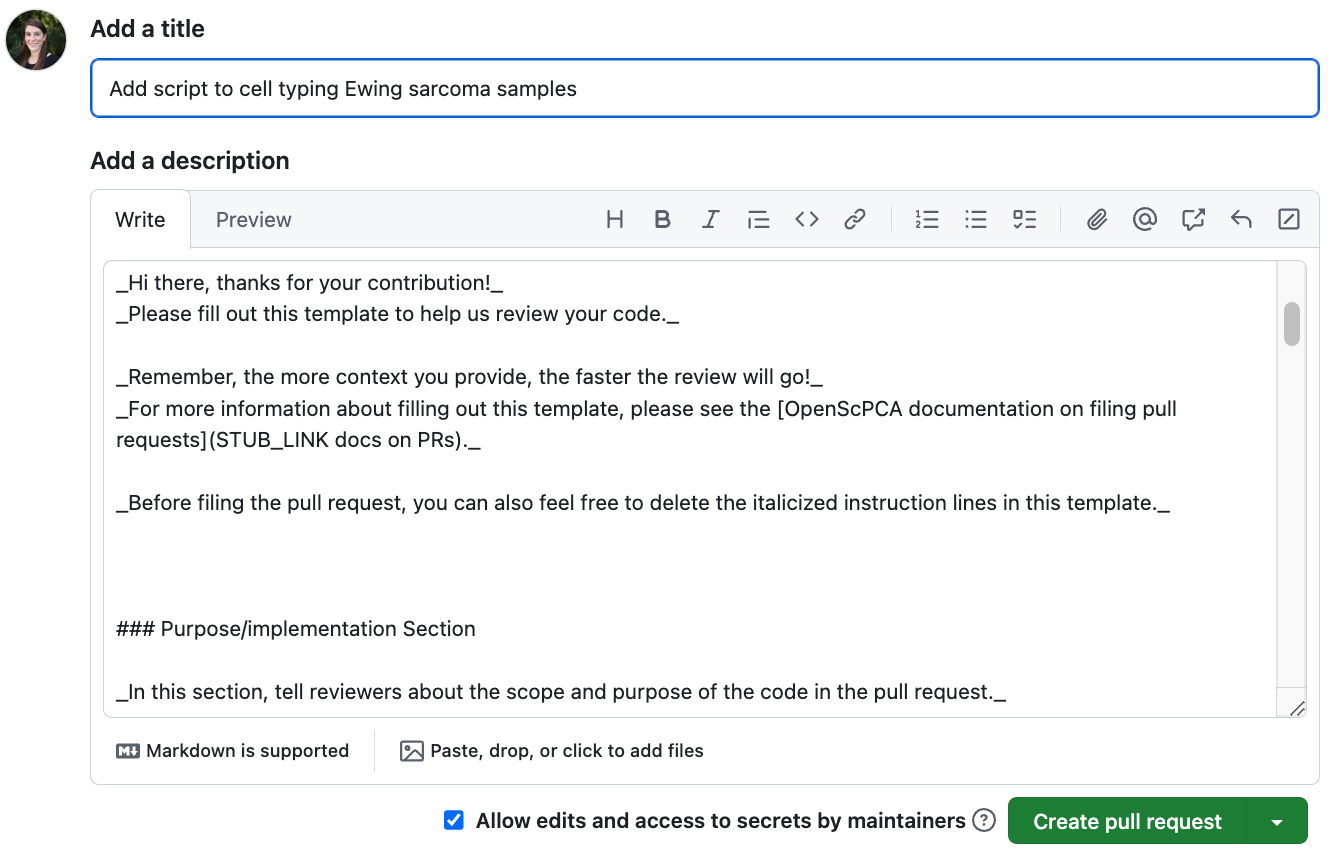
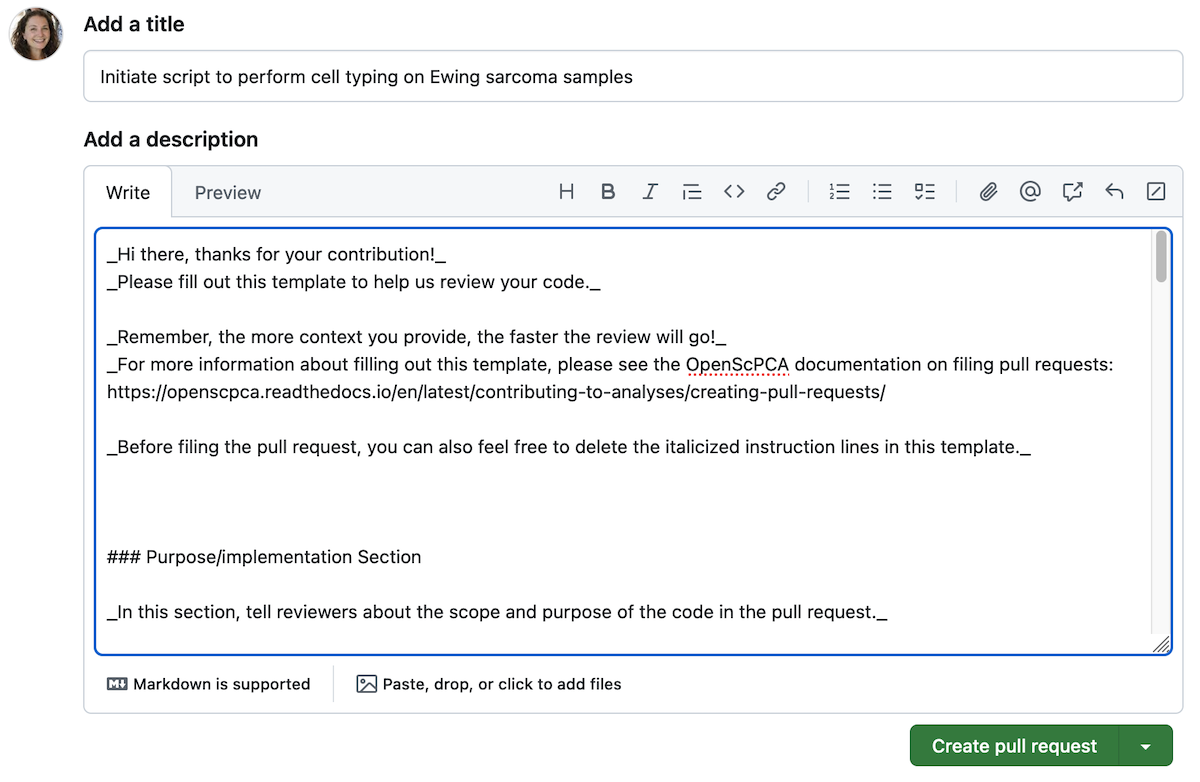
contributing cleanups, including a new image without stub_link and clearer PR subject

Changed region(s): [[0.0, 0.0, 0.9867, 0.9207], [0.3083, 0.89, 0.9867, 0.9821]]

diff --git a/docs/contributing-to-analyses/working-with-git/staying-in-sync-with-upstream.md b/docs/contributing-to-analyses/working-with-git/staying-in-sync-with-upstream.md
@@ -23,7 +23,7 @@ Follow these steps to keep your fork in sync with changes in `AlexsLemonade/Open
 
 1. If the `main` branch of your fork is out of date with the `main` branch of `AlexsLemonade/OpenScPCA-analysis`, then you will see a note that states:
 
-    >  This branch is X commits behind `AlexsLemonade/Open-ScPca-analysis:main`.
+    >  This branch is X commits behind `AlexsLemonade/OpenScPCA-analysis:main`.
 
     You can then press `Sync fork` to sync your fork with any upstream changes.
 
@@ -31,20 +31,23 @@ Follow these steps to keep your fork in sync with changes in `AlexsLemonade/Open
         ![Sync fork](../../img/upstream-sync-1.png){width="600"}
     </figure>
 
-1. After pressing `Sync fork` a pop-up will notify you that the branch is out-of-date.
-    Go ahead and press `Update branch`.
+2. After pressing `Sync fork`, GitHub will notify you that the branch is out-of-date.
+Go ahead and press `Update branch`.
+
+    - If GitHub instead tells you there are conflict that must be resolved, see the [section below on resolving sync conflicts](#syncing-your-fork-when-there-are-sync-conflicts).
+
 
     <figure markdown="span">
         ![Update branch](../../img/upstream-sync-2.png){width="300"}
     </figure>
 
-1. If your `main` branch has been updated successfully, you will now see a note that the branch is up to date with `AlexsLemonade/OpenScPCA-analysis`.
+3. If your `main` branch has been updated successfully, you will now see a note that the branch is up to date with `AlexsLemonade/OpenScPCA-analysis`.
 
     <figure markdown="span">
         ![Successful sync](../../img/upstream-sync-3.png){width="600"}
     </figure>
 
-1. Before making any changes locally, you will need to pull the synced changes from GitHub to your computer.
+4. Before making any changes locally, you will need to pull the synced changes from GitHub to your computer.
 
     In GitKraken, you will see two versions of the `main` branch in the branch graph:
 
@@ -73,13 +76,16 @@ Follow these steps to keep your fork in sync with changes in `AlexsLemonade/Open
 If there are changes on your `main` branch that conflict with the current code in the `main` branch of `AlexsLemonade/OpenScPCA-analysis`, you will not be able to sync until those conflicts have been resolved.
 
 When this happens, GitHub will notify you that there are conflicts after pushing `Sync fork`.
+**Do not click either of the buttons `Discard X commits` or `Open pull request`.**
 
 <figure markdown="span">
     ![Sync conflicts](../../img/upstream-sync-6.png){width="300"}
 </figure>
 
-**Do not click either of the buttons `Discard X commits` or `Open pull request`.**
 Instead, follow these steps to fix the sync conflicts in GitKraken:
+
+!!! tip
+    Learn more about how to resolve these conflicts by watching this [tutorial from GitKraken](https://www.gitkraken.com/learn/git/tutorials/how-to-resolve-merge-conflict-in-git).
 
 1. Open up your forked repository in GitKraken and checkout the `main` branch of your fork.
 
@@ -101,7 +107,6 @@ Any files that contain conflicts will be listed on the right-hand side under `Co
         ![Conflict files list](../../img/upstream-sync-9.png){width="400"}
     </figure>
 
-    To learn how to resolve these conflicts, please watch this [tutorial from GitKraken](https://www.gitkraken.com/learn/git/tutorials/how-to-resolve-merge-conflict-in-git).
-
     Once you have resolved the conflicts and committed the changes, your `main` branch will now be in sync with the upstream `main` branch of `AlexsLemonade/OpenScPCA-analysis`.
-    You may also choose to [push these changes to GitHub](./push-to-origin.md), to ensure that both the local and remote copy of your `main` branch are in sync with `AlexsLemonade/OpenScPCA-analysis:main`.
+
+    We also suggest [pushing these changes to GitHub](./push-to-origin.md), to ensure that both the local and remote copy of your fork's `main` branch are in sync with `AlexsLemonade/OpenScPCA-analysis:main`.

diff --git a/docs/contributing-to-analyses/creating-pull-requests/scoping-pull-requests.md b/docs/contributing-to-analyses/creating-pull-requests/scoping-pull-requests.md
@@ -23,7 +23,7 @@ Ensuring your PRs are focused on one task helps combat reviewer fatigue and keep
 
 - Longer PRs are harder and more time-consuming to review, and reviewers are more likely to miss catching unwanted bugs in the code.
 - The smaller the PR, the faster and more thorough the review!
-- Quicker review means you are less likely to introduce [merge conflicts](resolve-merge-conflicts.md).
+- Quicker review means [merge conflicts](resolve-merge-conflicts.md) are less likely to arise.
 
 ## Rules of thumb for good pull requests
 
@@ -31,11 +31,11 @@ Below are some good rules of thumb to follow when determining when to file a PR:
 
 - The total number of changed lines should be less than 400.
 
-    Any time that you are making changes on a branch, you can go through the steps of [filing a PR](./file-pull-request.md) to view the amount of lines that have been changed.
-    Instead of actually filing the PR, you can scroll below the template description to see the summary of commits and changes.
-    Below the summary of all commits, GitHub displays a summary of your line-by-line changes, including the number of lines with additions and deletions.
+    Any time that you are making changes on a branch, you can go through the steps of [filing a PR](./file-pull-request.md) to view the amount of lines that have been changed:
 
-    In the example below, 18 lines have been changed.
+    - Instead of actually filing the PR, you can scroll below the template description to see the summary of commits and changes.
+    - Below the summary of all commits, GitHub displays a summary of your line-by-line changes, including the number of lines with additions and deletions.
+    - In the example below, 18 lines have been changed.
     If you start seeing the number of lines approach 400, it's time to file that PR!
 
     <figure markdown="span">
@@ -44,5 +44,4 @@ Below are some good rules of thumb to follow when determining when to file a PR:
 
 - Each PR should address a single issue and solve one problem.
 This means you should file, at a minimum, one PR to address each issue.
-_Please do not_ file PRs that address multiple issues at once.
-
+_Please try not to file PRs that address multiple issues at once._

diff --git a/docs/contributing-to-analyses/creating-pull-requests/resolve-merge-conflicts.md b/docs/contributing-to-analyses/creating-pull-requests/resolve-merge-conflicts.md
@@ -21,8 +21,8 @@ If their branch is merged into the `main` branch of the upstream `AlexsLemonade/
 
 <figure markdown="span">
     ![Merge conflicts example](../../img/resolve-merge-conflicts-1.png){width="500"}
+    <figcaption>Image from [https://blog.developer.atlassian.com/a-better-pull-request/](https://blog.developer.atlassian.com/a-better-pull-request/).</figcaption>
 </figure>
-Figure taken from [https://blog.developer.atlassian.com/a-better-pull-request/](https://blog.developer.atlassian.com/a-better-pull-request/).
 
 To resolve merge conflicts, you need to merge the upstream `main` branch into your feature branch.
 If Git finds merge conflicts, you can then resolve them in GitKraken, as described below.
@@ -46,6 +46,9 @@ To do this, right-click on the remote `main` from `AlexsLemonade/OpenScPCA-analy
 1. A banner will pop up indicating that there is a merge conflict.
 Any files that contain conflicts will be listed on the right-hand side under `Conflicted files`.
 
+    !!! tip
+        Learn more about how to resolve these conflicts by watching this [tutorial from GitKraken](https://www.gitkraken.com/learn/git/tutorials/how-to-resolve-merge-conflict-in-git).
+
     <figure markdown="span">
         ![Conflict banner](../../img/upstream-sync-8.png){width="400"}
     </figure>
@@ -54,7 +57,6 @@ Any files that contain conflicts will be listed on the right-hand side under `Co
         ![Conflict files list](../../img/upstream-sync-9.png){width="400"}
     </figure>
 
-    To learn how to resolve these conflicts, please watch this [tutorial from GitKraken](https://www.gitkraken.com/learn/git/tutorials/how-to-resolve-merge-conflict-in-git).
 
 1. Once you have resolved the conflicts and committed the changes, your feature branch will now be in sync with the most recent changes in the `main` branch of `AlexsLemonade/OpenScPCA-analysis`.
 You should then [push these changes to GitHub](../working-with-git/push-to-origin.md), to ensure that both the local and remote copy of your feature branch contain the most recent changes in `main`.

diff --git a/docs/contributing-to-analyses/creating-pull-requests/file-pull-request.md b/docs/contributing-to-analyses/creating-pull-requests/file-pull-request.md
@@ -1,6 +1,6 @@
 # Filing a pull request
 
-Once you have [committed changes](../working-with-git/making-commits.md) to your [feature branch](../working-with-git/working-with-branches.md) and [pushed to origin](../working-with-git/push-to-origin.md), you are ready to [file a PR](index.md).
+Once you have [committed changes](../working-with-git/making-commits.md) to your [feature branch](../working-with-git/working-with-branches.md) and [pushed to origin](../working-with-git/push-to-origin.md), you are ready to file a PR.
 
 Don't know what to include in your PR or when to file a PR? See our [guidelines on scoping a PR](./scoping-pull-requests.md)!
 
@@ -19,7 +19,7 @@ Follow the below steps to file a pull request on GitHub:
 
 1. [Push](../working-with-git/push-to-origin.md) all commits to origin, ensuring that all commits are saved to the remote copy of your feature branch.
 
-1. Navigate to your fork of the OpenScPCA repository on `GitHub.com`.
+1. Navigate to your fork of the OpenScPCA repository on GitHub.
 
     Once there, use the drop-down menu on the top left to select the feature branch you would like to file the PR _from_.
     This will re-load the page and now display the contents of your feature branch.

diff --git a/docs/contributing-to-analyses/creating-pull-requests/pull-request-template.md b/docs/contributing-to-analyses/creating-pull-requests/pull-request-template.md
@@ -2,7 +2,7 @@
 
 ## What is a pull request template?
 
-When [filing a PR](STUB-LINK file a PR), GitHub will ask you for an informative title and description of the changes.
+When [filing a PR](file-pull-request.md), GitHub will ask you for an informative title and description of the changes.
 There is lots of other information you can include in your PR, including items you want reviewers to have a particularly close look at, or any other technical information that will help the review process go more smoothly.
 
 In OpenScPCA, we use a pull request template to directly prompt you for important kinds of information that will help us review your code:

diff --git a/docs/contributing-to-analyses/working-with-git/working-with-branches.md b/docs/contributing-to-analyses/working-with-git/working-with-branches.md
@@ -71,7 +71,7 @@ Follow these steps to create your feature branch:
 !!! note "Helpful hints for choosing a branch name"
 
     - Branch names should always be unique, so don't reuse old branch names!
-    - Names should not contain any special symbols besides `_` and `-`.
+    - Branch names should not contain any special symbols besides `_` and `-`.
     - It can be extra helpful to include the issue number in your branch name, e.g., `username/42-celltype-ewings`.
 
 You have now successfully created your new feature branch.
